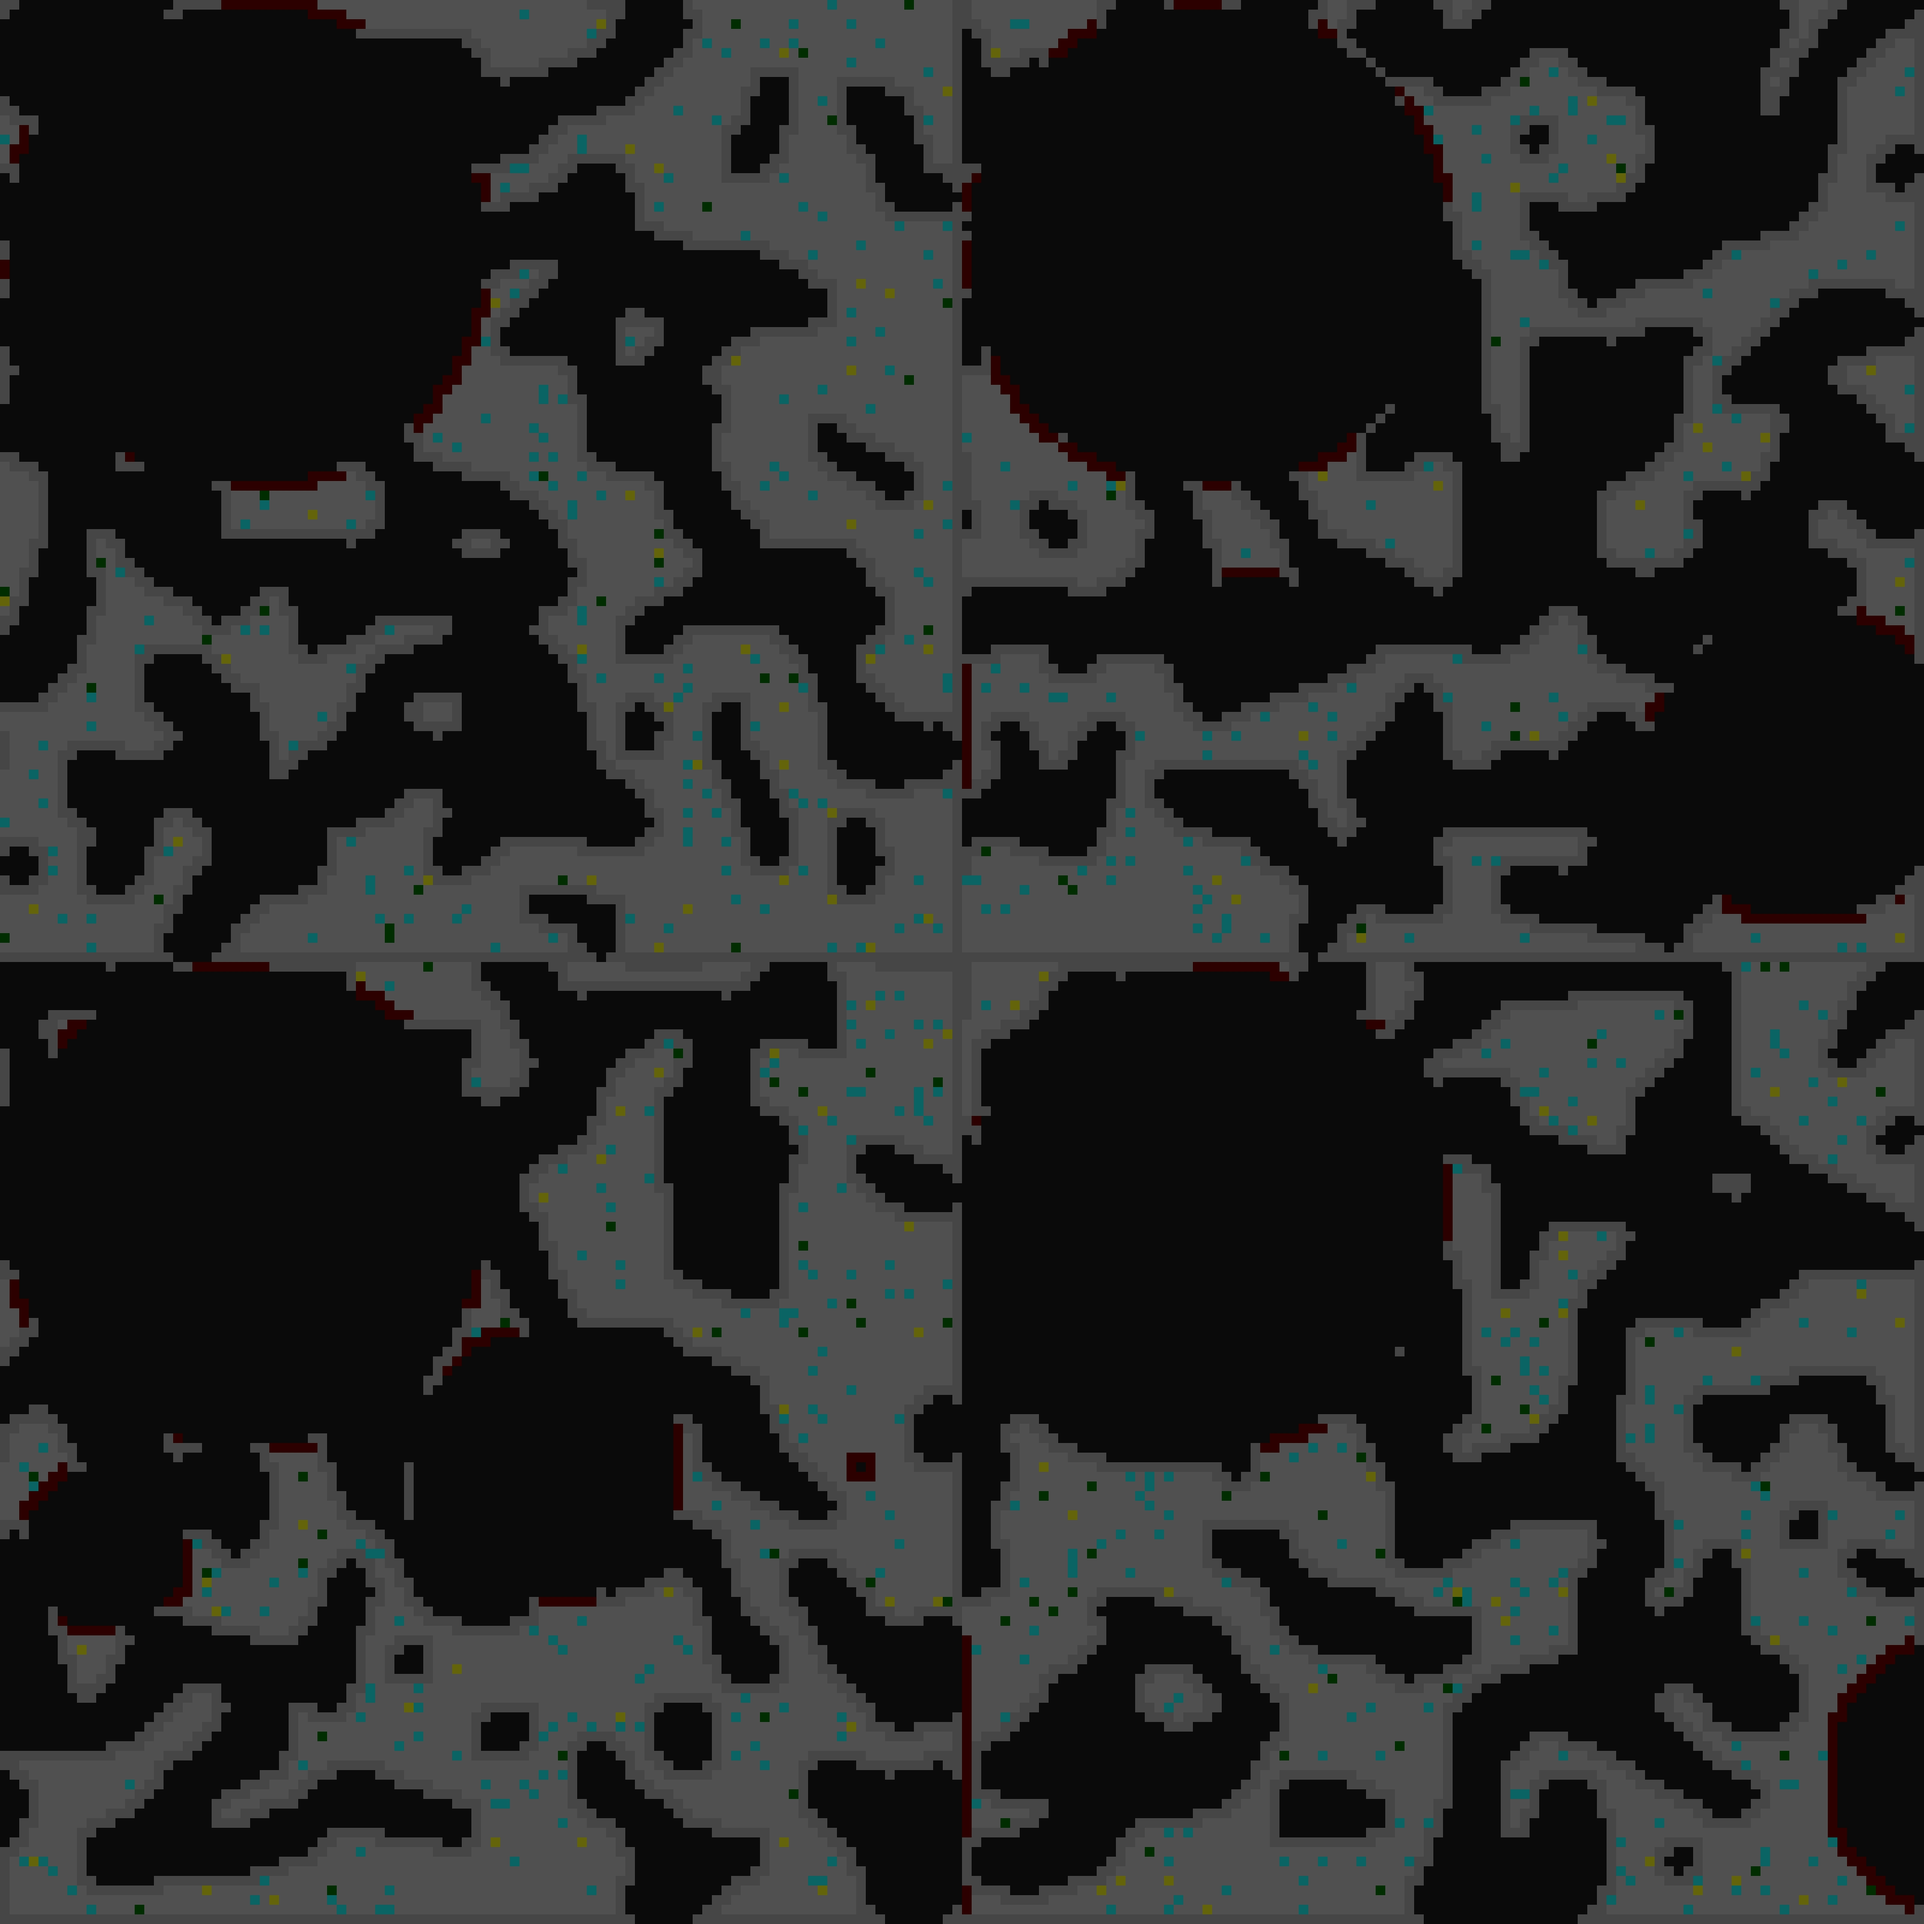
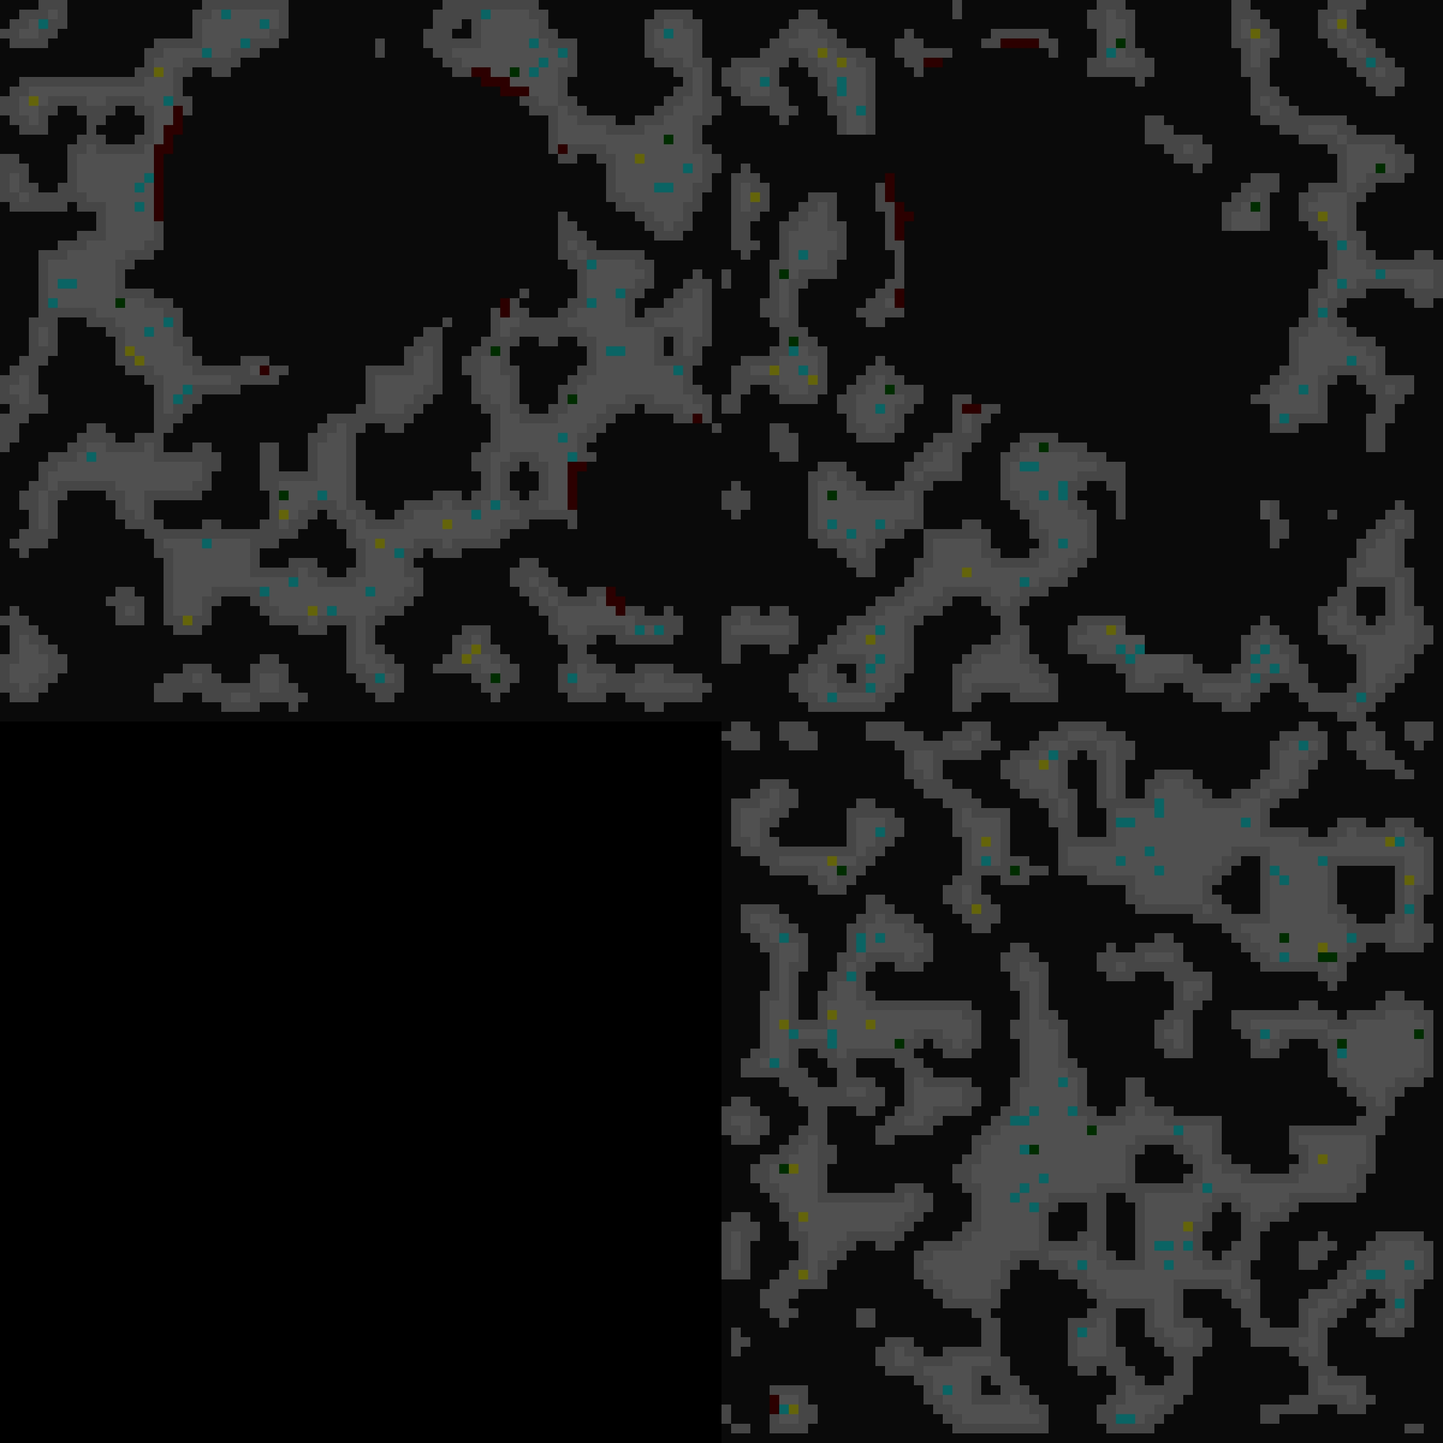
tegin performancit paremaks, aga mineraale l6hkudes võib fps langeda, tegelen sellega veel

diff --git a/in_game.py b/in_game.py
@@ -84,10 +84,8 @@ def draw_map_surface(block_size):
         row = 0
         column = 0
 
-    update_map()
-
 def update_map():
-    global Whole_map, map_surface_dict, map_update_queue
+    global whole_map_surface , map_surface_dict, map_update_queue, World_map
     #võtab listist kordinaadid ja blocki id ning muudab need map_surface'ilt ja map_listist
     colors = {
              0 : ( 10,  10,  10),
@@ -99,6 +97,21 @@ def update_map():
             12 : ( 10, 100, 100),
             13 : (  0,  45,   0),
         }
+
+    greatest_positive_x1 = 0
+    greatest_negative_x1 = 0
+    greatest_positive_y1 = 0
+    greatest_negative_y1 = 0
+
+    for i in map_surface_dict:
+        if i[0] > greatest_positive_x1 and i[0] > 0:
+            greatest_positive_x1 = i[0]
+        if i[0] < greatest_negative_x1 and i[0] < 0:
+            greatest_negative_x1 = i[0]
+        if i[1] > greatest_positive_y1 and i[1] > 0:
+            greatest_positive_y1 = i[1]
+        if i[1] < greatest_negative_y1 and i[1] < 0:
+            greatest_negative_y1 = i[1]
 
     if len(map_update_queue) != 0:
         for i in range(len(map_update_queue)):
@@ -114,23 +127,20 @@ def update_map():
                 cord_x -= 1
             map_chunk.append(trunc(cord_x))
 
-            #print(tuple(map_chunk), map_update_queue[i][0], map_update_queue[i][1], map_update_queue[i][2])
-            try:
-                World_map.map_dict[tuple(map_chunk)].map[map_update_queue[i][0]][map_update_queue[i][1]] = map_update_queue[i][2]
+            World_map.map_dict[tuple(map_chunk)].map[map_update_queue[i][0]][map_update_queue[i][1]] = map_update_queue[i][2]
 
-                map_surface_dict[tuple(map_chunk)].fill(colors[map_update_queue[i][2]], (map_update_queue[i][1]*block_size, map_update_queue[i][0]*block_size, block_size, block_size))
+            map_surface_dict[tuple(map_chunk)].fill(colors[map_update_queue[i][2]], (map_update_queue[i][1]*block_size, map_update_queue[i][0]*block_size, block_size, block_size))
+            whole_map_surface.fill(colors[map_update_queue[i][2]], (((abs(greatest_negative_x1) + map_chunk[0])*map_size + map_update_queue[i][1])*block_size, ((greatest_positive_y1 - map_chunk[1])*map_size + map_update_queue[i][0])*block_size, block_size, block_size))
 
-            except:
-                pass
+            print(((abs(greatest_negative_x1) + map_chunk[0])*map_size + map_update_queue[i][1])*block_size, ((greatest_positive_y1 - map_chunk[1])*map_size + map_update_queue[i][0])*block_size)
 
     for j in World_map.map_dict:
         for i in World_map.map_dict[tuple(j)].dropped_items:
 
             map_surface_dict[j].fill(colors[4], (i[1]*block_size, i[0]*block_size, block_size, block_size))
+            whole_map_surface.fill(colors[4], (((abs(greatest_negative_x1) + j[0])*map_size + i[1])*block_size, ((greatest_positive_y1 - j[1])*map_size + i[0])*block_size, block_size, block_size))
 
     map_update_queue = []
-
-    join_maps()
 
 def join_maps():
     global World_map, map_surface_dict, whole_map_surface, greatest_negative_x, greatest_positive_y, greatest_positive_x, greatest_negative_y
@@ -184,6 +194,7 @@ def init():
 
     # pind kuhu on joonistatud kaart
     draw_map_surface(block_size)
+    join_maps()
     draw_minimap(mm_block_size, mm_surface_size)
 
     # pygame'i standartne font

diff --git a/game_classes.py b/game_classes.py
@@ -55,8 +55,9 @@ class Character:
                         self.inventory.update({in_game.World_map.map_dict[(0, 0)].dropped_items[item_pos]: 1})
                     del in_game.World_map.map_dict[(0, 0)].dropped_items[item_pos]
 
-
                     in_game.draw_map_surface(in_game.block_size)
+                    in_game.update_map()
+                    in_game.join_maps()
                     in_game.draw_minimap(in_game.mm_block_size, in_game.mm_surface_size)
 
     def display_inventory(self):

diff --git a/spells.py b/spells.py
@@ -51,7 +51,6 @@ class Bullet(pygame.sprite.Sprite):
                 #in_game.map_list[round(self.pos[1] + self.speed_y)][round(self.pos[0] + self.speed_y)] = 0
                 self.explode(self.explode_size)
 
-                #in_game.draw_map_surface(in_game.block_size)
                 in_game.draw_minimap(in_game.mm_block_size, in_game.mm_surface_size)
 
 

diff --git a/map_gen.py b/map_gen.py
@@ -34,6 +34,7 @@ class Whole_map(object):
             self.map_dict.update({new_map_idx: generate_map(map_size)})
 
             in_game.draw_map_surface(in_game.block_size)
+            in_game.join_maps()
 
 class Map(object):
     # Generates map with height and width
